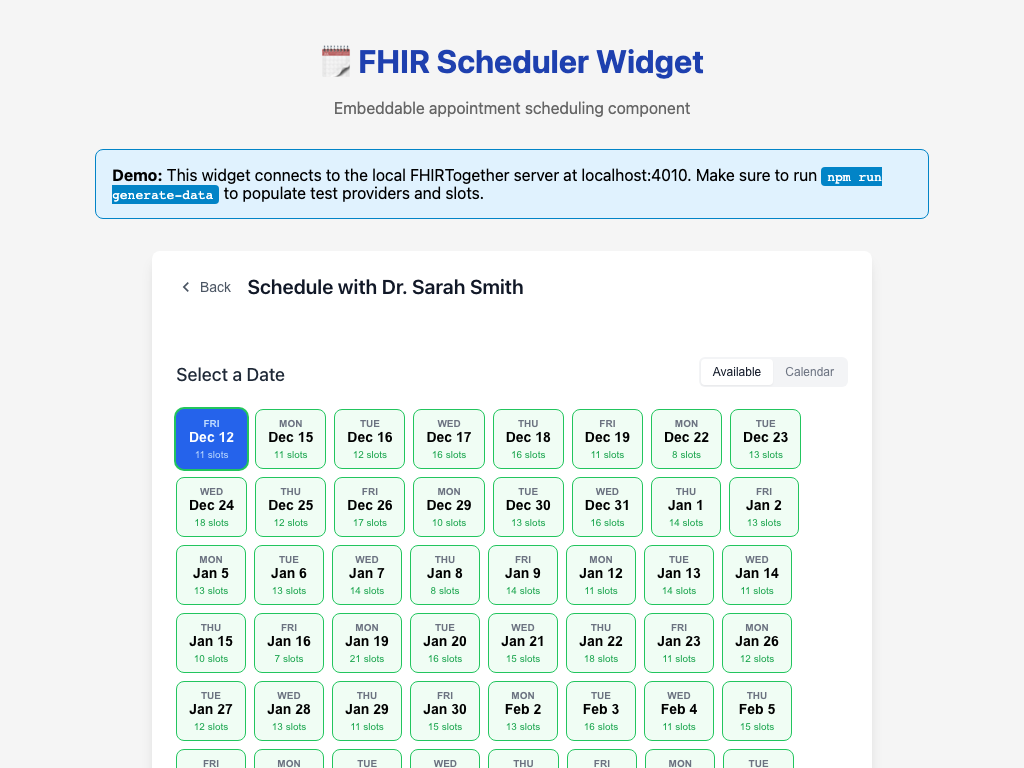
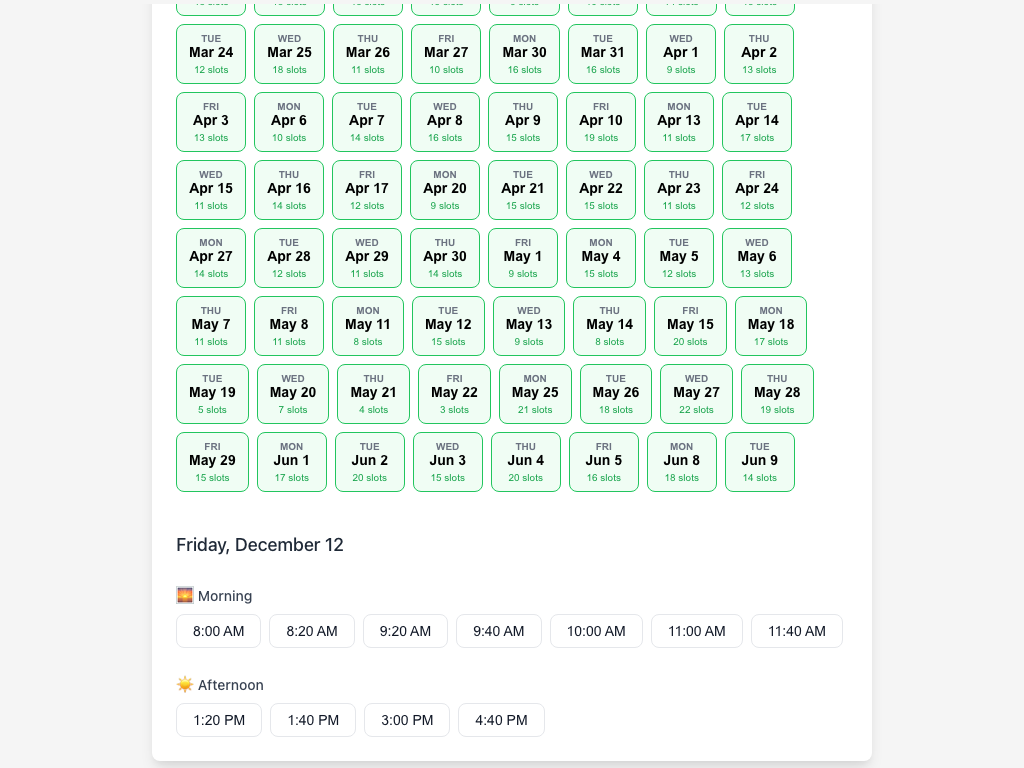
feat: Auto-scroll to time slots after date selection
Improves UX on mobile/small screens by scrolling the time slots
section into view after a date is selected.

diff --git a/packages/fhir-scheduler/src/components/SlotCalendar.tsx b/packages/fhir-scheduler/src/components/SlotCalendar.tsx
@@ -1,4 +1,4 @@
-import { useMemo, useCallback, useEffect, useState } from 'react';
+import { useMemo, useCallback, useEffect, useState, useRef } from 'react';
 import type { Slot, Schedule } from '../types';
 import { useSchedulerStore } from '../store/schedulerStore';
 
@@ -140,6 +140,9 @@ export function SlotCalendar({
     return { year: today.getFullYear(), month: today.getMonth() };
   });
   
+  // Ref for scrolling to time slots after date selection
+  const timeSlotsRef = useRef<HTMLElement>(null);
+  
   const dateOptions = useMemo(() => getDateOptions(180), []);
   const dateOptionsSet = useMemo(() => new Set(dateOptions), [dateOptions]);
   
@@ -214,6 +217,10 @@ export function SlotCalendar({
   const handleDateSelect = useCallback(
     (date: string) => {
       onDateChange(date);
+      // Scroll to time slots after a brief delay to allow render
+      setTimeout(() => {
+        timeSlotsRef.current?.scrollIntoView({ behavior: 'smooth', block: 'start' });
+      }, 100);
     },
     [onDateChange]
   );
@@ -381,7 +388,7 @@ export function SlotCalendar({
       
       {/* Time Slots */}
       {selectedDate && (
-        <section className="fs-time-slots" aria-label="Available times">
+        <section ref={timeSlotsRef} className="fs-time-slots" aria-label="Available times">
           <h3 className="fs-subsection-title">
             {formatDateDisplay(selectedDate)}
           </h3>
